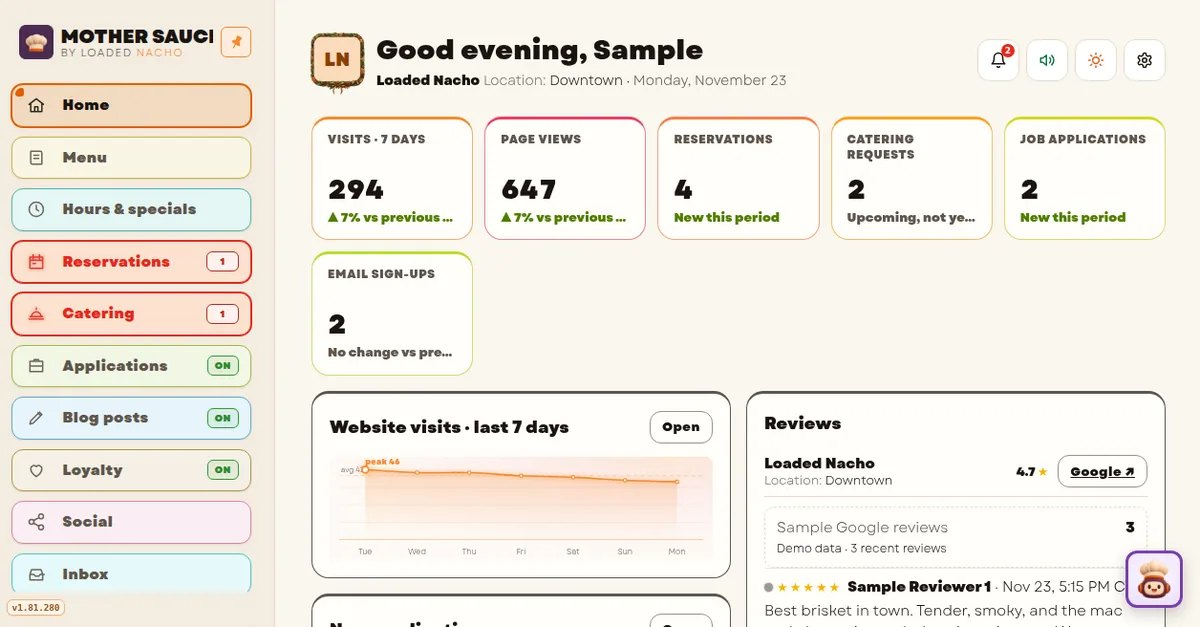
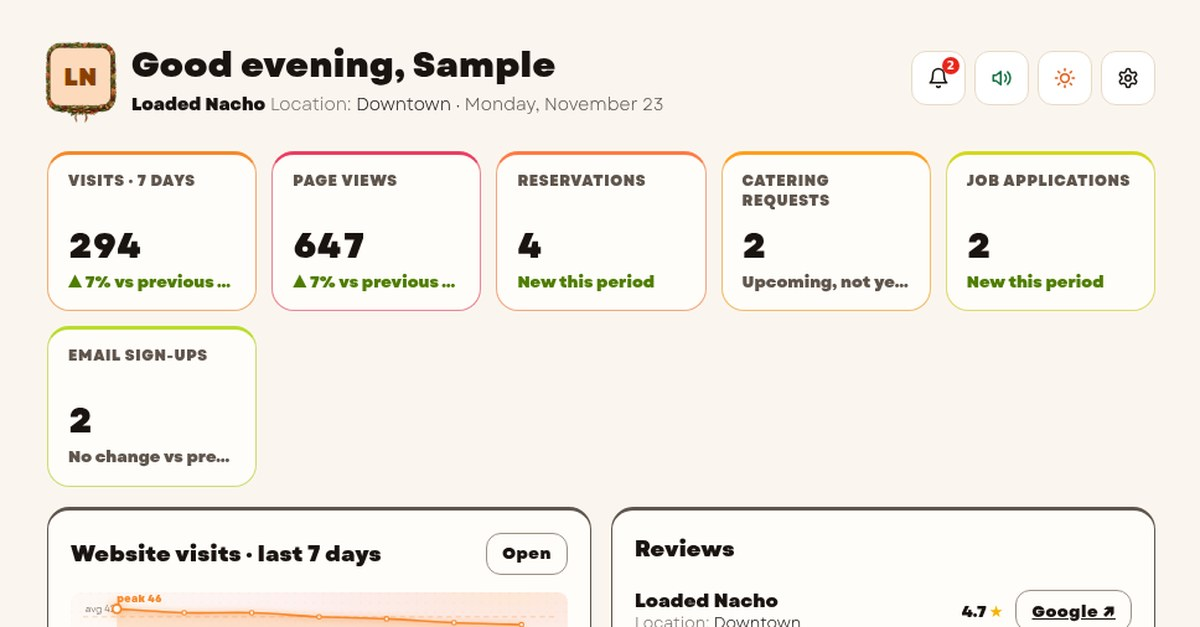
loadednacho: re-cut the Mother Sauce hero without chrome

diff --git a/sites/loadednacho/public/index.html b/sites/loadednacho/public/index.html
@@ -53,7 +53,7 @@
    <p>Mother Sauce is the dashboard that comes with a Loaded Nacho build-out. One sign-in keeps your menu and hours current, shows reservations and catering requests as they come in, and puts reviews and social in the same place.</p>
    <p>It is included with every build-out — the full tour is on the product site.</p>
    <a href="https://mothersauce.app/" class="btn"><svg class="bi" viewBox="0 0 24 24" width="18" height="18" aria-hidden="true" focusable="false" fill="none" stroke="currentColor" stroke-width="2" stroke-linecap="round" stroke-linejoin="round"><path d="M5 12h14"/><path d="M13 6l6 6-6 6"/></svg>See Mother Sauce</a></div>
-  <div class="ms-frame reveal"><div class="bar"><i></i><i></i><i></i><span>mothersauce.app</span></div><picture><source type="image/webp" srcset="/assets/img/ms/ms-dashboard-hero.webp?v=7"><img src="/assets/img/ms/ms-dashboard-hero.jpg?v=7" alt="Mother Sauce Home dashboard with sample data: five KPI cards, a 7-day visits chart and today’s hours." width="1200" height="627" loading="lazy" decoding="async"></picture></div>
+  <div class="ms-frame reveal"><div class="bar"><i></i><i></i><i></i><span>mothersauce.app</span></div><picture><source type="image/webp" srcset="/assets/img/ms/ms-dashboard-hero.webp?v=8"><img src="/assets/img/ms/ms-dashboard-hero.jpg?v=8" alt="Mother Sauce Home dashboard with sample data: five KPI cards, a 7-day visits chart and today’s hours." width="1200" height="627" loading="lazy" decoding="async"></picture></div>
  </div>
 </section>
 
